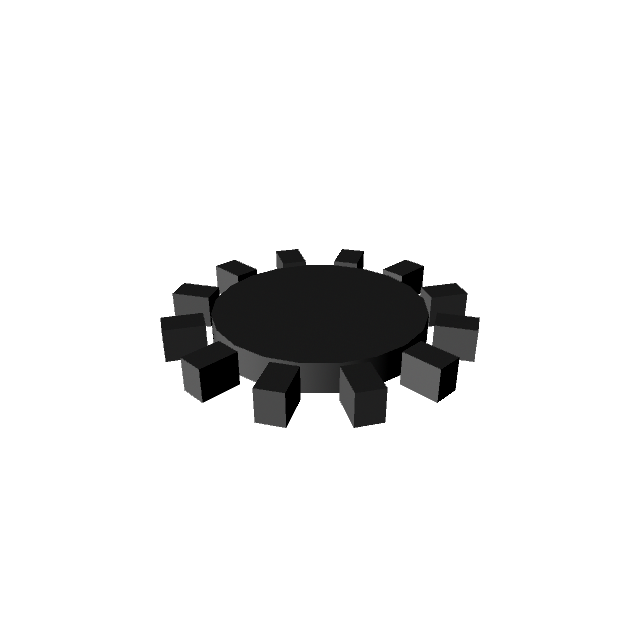
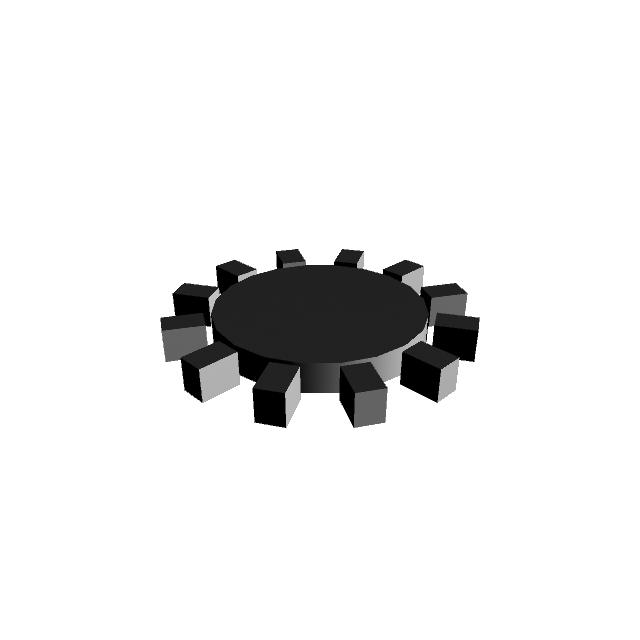
fix(eval,docs): close review findings on the M2.4 live gate (redmine #587)
Review of Task 6's array_deform_live.py found the mirror gate's bbox
assertion invariant to the thing it claimed to prove (baked-into-geometry
vs pushed-onto-the-child's-transform-channels are indistinguishable in
world space), the flare completely unmeasured (verts>0 passes for a
no-op flare), and docs still advertising the pre-M2.4 5-type deformer
set. Also fixed: the mirror's pixel cross-check didn't actually
discriminate (anti-aliasing alone clears its threshold), the gear gate
verified position but not orientation, a stale docstring claim, and
short render-target names that resolve today but are ambiguous once
copies live under a group.

Added own_transform_channels() (reads the copy's own scale/rotate
attrs directly, not a world-decomposed value) and flare_widths()
(radial extent near the bottom vs top of the core, same idiom as
test_flare_actually_tapers). Replaced the mirror's distinct_colors
check with an isolated render of the copy alone, asserting floors on
opaque_px/mean_luma. Added a gear-orientation swap check picked by
measured bearing rather than list index. All render() calls now pass
long names.

26/26 checks pass (up from 17); every new check passed clean on first
run, so no handler code changed. README.md and docs/design.md now list
all 8 deformer types. Headless suite unchanged: 434 passed, 1 skipped.

Changed region(s): [[0.25, 0.4062, 0.75, 0.6875], [0.5312, 0.4062, 0.5625, 0.4375], [0.4375, 0.4062, 0.4688, 0.4375]]

diff --git a/evals/array_deform_live.py b/evals/array_deform_live.py
@@ -9,7 +9,8 @@ The mirror gate additionally settles four assumptions a code review flagged
 as things only a live Maya can verify (see the mirror_bbox assertion and the
 signed_volume assertions below for which one covers which).
 
-Exits non-zero on the first failure.
+Runs every check to completion (check() accumulates failures; only ok() aborts
+early, on a hard call failure) and exits non-zero if any check failed.
 
 Run:  set MAYA_MCP_PORT=9878 && .venv/Scripts/python.exe evals/array_deform_live.py
 Artifacts: evals/array_deform_live/*.png
@@ -76,6 +77,18 @@ def span_of(objs, name):
     return [hi[i] - lo[i] for i in range(3)]
 
 
+def angle_of(objs, name):
+    """Bearing (degrees, 0..360) of `name`'s centroid around the world Y axis."""
+    c = centroid_of(objs, name)
+    return math.degrees(math.atan2(c[2], c[0])) % 360.0
+
+
+def circular_diff(a, b):
+    """Smallest angular distance between two bearings in degrees."""
+    d = (a - b) % 360.0
+    return min(d, 360.0 - d)
+
+
 _TIGHT_BBOX_CODE = """
 import json
 import maya.api.OpenMaya as om
@@ -90,6 +103,70 @@ ys = [p.y for p in pts]
 zs = [p.z for p in pts]
 print(json.dumps({"lo": [min(xs), min(ys), min(zs)], "hi": [max(xs), max(ys), max(zs)]}))
 """
+
+
+_FLARE_WIDTH_CODE = """
+import json
+import maya.api.OpenMaya as om
+sel = om.MSelectionList()
+sel.add(%r)
+dag = sel.getDagPath(0)
+dag.extendToShape()
+fn = om.MFnMesh(dag)
+pts = fn.getPoints(om.MSpace.kWorld)
+ys = [p.y for p in pts]
+y_lo, y_hi = min(ys), max(ys)
+band = (y_hi - y_lo) * 0.1
+def radial(p):
+    return (p.x ** 2 + p.z ** 2) ** 0.5
+bottom = [radial(p) for p in pts if p.y <= y_lo + band]
+top = [radial(p) for p in pts if p.y >= y_hi - band]
+print(json.dumps({
+    "y_lo": y_lo, "y_hi": y_hi,
+    "width_bottom": max(bottom) if bottom else 0.0,
+    "width_top": max(top) if top else 0.0,
+}))
+"""
+
+
+def flare_widths(name):
+    """Radial extent (world space) of `name`'s bottom 10% vs top 10% by Y.
+
+    Measures the SHAPE the flare produced, not just "something changed" -
+    same idiom as test_flare_actually_tapers in test_handlers_mayapy.py.
+    Radial distance from the local Y axis rather than raw abs(x), because the
+    core's flare tapers both startFlareX/Z and endFlareX/Z together, so the
+    taper shows on both axes and hypot(x, z) is the honest single number for it.
+    """
+    result = ok(call("execute_python", {"code": _FLARE_WIDTH_CODE % name}, 60.0),
+                "flare widths %s" % name)
+    return json.loads(result["stdout"])
+
+
+_TRANSFORM_CODE = """
+import json
+import maya.cmds as cmds
+print(json.dumps({
+    "translate": cmds.getAttr(%r + ".translate")[0],
+    "rotate": cmds.getAttr(%r + ".rotate")[0],
+    "scale": cmds.getAttr(%r + ".scale")[0],
+}))
+"""
+
+
+def own_transform_channels(name):
+    """The literal translate/rotate/scale attribute values on `name`'s own
+    transform node - NOT cmds.xform's worldSpace-decomposed numbers, which
+    would read as identity-ish for any unparented node regardless of whether
+    the parent's old transform was baked into geometry or just handed down
+    onto this node's own channels. Distinguishing those two is the entire
+    point of this check (see Important 1 in task-6-report.md): a world-space
+    measurement (bbox, signed_volume) is invariant to which of them happened,
+    because cmds.parent(world=True) preserves world position either way.
+    """
+    result = ok(call("execute_python", {"code": _TRANSFORM_CODE % (name, name, name)}, 60.0),
+                "transform channels %s" % name)
+    return json.loads(result["stdout"])
 
 
 def tight_world_bbox(name):
@@ -112,10 +189,14 @@ def tight_world_bbox(name):
     return data["lo"], data["hi"]
 
 
-def render(label, target, zoom=1.2):
-    result = ok(call("render_scene", {
+def render(label, target, zoom=1.2, isolate=None):
+    params = {
         "angles": ["three_quarter"], "renderer": "arnold", "resolution": 640,
-        "samples": 3, "target": target, "zoom": zoom}, 900.0), "render %s" % label)
+        "samples": 3, "target": target, "zoom": zoom,
+    }
+    if isolate is not None:
+        params["isolate"] = isolate
+    result = ok(call("render_scene", params, 900.0), "render %s" % label)
     os.makedirs(OUT_DIR, exist_ok=True)
     shot = result["images"][0]
     png = base64.b64decode(shot["png_b64"])
@@ -156,9 +237,28 @@ def gate_gear():
     check(max(gaps) - min(gaps) < 0.5,
           "teeth evenly spaced (gap range %.3f deg)" % (max(gaps) - min(gaps)))
 
+    # Position alone passes for an implementation that translates copies
+    # around the ring WITHOUT rotating them - all teeth facing the same way.
+    # The tooth's scale is [1.2, 1.0, 0.8] (X != Z), so the copy nearest 90
+    # degrees from the source must have its X/Z bbox spans SWAPPED relative
+    # to the source if it actually rotated. Picked by measured bearing, not
+    # list index - group() child order is not a contract this gate should lean on.
+    src_angle = angle_of(objs, "|tooth")
+    target_angle = (src_angle + 90.0) % 360.0
+    ninety = min(result["names"], key=lambda n: circular_diff(angle_of(objs, n), target_angle))
+    ninety_offset = circular_diff(angle_of(objs, ninety), target_angle)
+    src_span, rot_span = span_of(objs, "|tooth"), span_of(objs, ninety)
+    check(
+        abs(rot_span[0] - src_span[2]) < 0.02 and abs(rot_span[2] - src_span[0]) < 0.02,
+        "tooth near 90deg has X/Z bbox spans swapped vs source - actually "
+        "rotated, not just translated (source X=%.3f Z=%.3f, rotated-copy "
+        "X=%.3f Z=%.3f, bearing offset from ideal 90deg %.2fdeg)"
+        % (src_span[0], src_span[2], rot_span[0], rot_span[2], ninety_offset)
+    )
+
     ok(call("setup_lighting", {"preset": "three_point", "intensity": 3.0,
                                "replace_existing": True}, 180.0), "lighting")
-    render("gear", ["hub", "tooth"] + [n.split("|")[-1] for n in result["names"]])
+    render("gear", ["|hub", "|tooth"] + result["names"])
 
 
 def gate_spine():
@@ -175,6 +275,20 @@ def gate_spine():
 
     info = ok(call("get_object_info", {"name": "|core"}, 60.0), "core info")
     check(info["mesh_stats"]["verts"] > 0, "core survived the flare")
+
+    # verts > 0 above passes even for a flare that did NOTHING - it only
+    # proves the mesh survived, not that it tapered. This milestone's
+    # headline feature (3 new nonlinear deformers) had zero live shape
+    # measurement without this: sample the core's own vertices and confirm
+    # the bottom 10% (by Y) is meaningfully wider than the top 10%, same
+    # shape as test_flare_actually_tapers in test_handlers_mayapy.py.
+    flare = flare_widths("|core")
+    ratio = (flare["width_bottom"] / flare["width_top"]) if flare["width_top"] else float("inf")
+    print("  flare widths: bottom=%.4f top=%.4f ratio=%.3f (y range %.3f..%.3f)"
+          % (flare["width_bottom"], flare["width_top"], ratio, flare["y_lo"], flare["y_hi"]))
+    check(flare["width_bottom"] > flare["width_top"] * 1.5,
+          "flare actually tapers the core (bottom %.4f > 1.5x top %.4f, ratio %.3f)"
+          % (flare["width_bottom"], flare["width_top"], ratio))
 
     ok(call("create_primitive", {
         "kind": "cube", "name": "rib", "translate": [0.0, 11.0, 0.0],
@@ -198,7 +312,7 @@ def gate_spine():
 
     ok(call("setup_lighting", {"preset": "three_point", "intensity": 3.0,
                                "replace_existing": True}, 180.0), "lighting")
-    render("spine", ["core", "rib"] + [n.split("|")[-1] for n in result["names"]])
+    render("spine", ["|core", "|rib"] + result["names"])
 
 
 def gate_mirror():
@@ -260,13 +374,31 @@ def gate_mirror():
           "mirrored bbox (off-origin pivot) matches the pure prediction "
           "(worst axis error %.5f)" % worst)
 
+    # The bbox match above is invariant to WHERE the reflection ended up -
+    # cmds.parent(world=True) preserves world position whether makeIdentity
+    # baked the -1 scale into the copy's geometry or just handed it down onto
+    # the copy's own transform channels, and world-space bbox/signed_volume
+    # cannot tell those apart. "Baked into geometry" means the copy's own
+    # transform node ends up identity-ish: scale 1.0 on every axis (NOT -1.0),
+    # no residual rotation from the freeze. Read directly off the node, not
+    # decomposed from a world matrix.
+    xform = own_transform_channels(copy)
+    print("  %s own transform: translate=%s rotate=%s scale=%s"
+          % (copy, xform["translate"], xform["rotate"], xform["scale"]))
+    check(all(abs(s - 1.0) < 1e-4 for s in xform["scale"]),
+          "mirrored copy's own scale channels are identity, not -1 (baked "
+          "into geometry): %s" % [round(s, 6) for s in xform["scale"]])
+    check(all(abs(r) < 1e-3 for r in xform["rotate"]),
+          "mirrored copy's own rotate channels show no residual freeze "
+          "rotation: %s" % [round(r, 6) for r in xform["rotate"]])
+
     check(result["signed_volume"] is not None,
           "signed_volume was measured on the mirrored copy")
     # Assumption 3 (MFnMesh.getTriangles()'s indices pair correctly with
     # getPoints(kWorld)) and assumption 4 (polyNormal(normalMode=0) really is
     # "reverse") are both settled by this assertion: a wrong triangle/point
     # pairing produces a near-random signed volume (as likely negative as
-    # positive, and not reliably matching the pixel cross-check below); a
+    # positive, and not reliably matching the isolated-render check below); a
     # normalMode that doesn't reverse leaves the mirrored copy's inverted
     # winding uncorrected, which is negative by construction.
     check((result["signed_volume"] or 0.0) > 0.0,
@@ -276,13 +408,22 @@ def gate_mirror():
 
     ok(call("setup_lighting", {"preset": "three_point", "intensity": 3.0,
                                "replace_existing": True}, 180.0), "lighting")
-    stats = render("mirror", ["arm", copy.split("|")[-1]])
-    # An inward-facing mesh renders black or hollow: with both halves lit and
-    # only one of them inside out, the frame loses colour variety. This is the
-    # pixel-side cross-check on the signed-volume number.
-    check(stats["distinct_colors"] > 200,
-          "the mirrored pair renders as lit solids (%d distinct colours)"
-          % stats["distinct_colors"])
+    render("mirror", ["|arm", copy])
+    # distinct_colors on a frame with BOTH objects is not a real cross-check:
+    # an anti-aliased Arnold render of one lit solid alone clears 200 unaided
+    # (measured on the gear frame, no inversion risk at all: 1122 distinct
+    # colours), so a fully black mirrored copy next to a correctly lit source
+    # would very likely still pass it. Render the mirrored copy ALONE instead
+    # (target AND isolate, so nothing else is even in frame) and assert
+    # floors on opaque_px and mean_luma - an inside-out mesh under Arnold
+    # renders black or hollow, which tanks both.
+    iso_stats = render("mirror_isolated", [copy], isolate=[copy])
+    check(iso_stats["opaque_px"] > 3000,
+          "mirrored copy ALONE has real opaque coverage, not a near-empty "
+          "frame (%d opaque px)" % iso_stats["opaque_px"])
+    check(iso_stats["mean_luma"] > 3.0,
+          "mirrored copy ALONE is actually lit, not black/hollow "
+          "(mean_luma %.2f)" % iso_stats["mean_luma"])
 
 
 if __name__ == "__main__":

diff --git a/README.md b/README.md
@@ -132,7 +132,7 @@ Environment variables, all optional:
 | `maya_boolean_op` | Boolean two meshes (union/difference/intersection); auto-checkpoints, deletes construction history, collapses shading to one material. |
 | `maya_etch_text` | Carve text into a mesh face in one call (glyph, size, orient to face normal, depth, boolean, cleanup); reuses `boolean_op`'s core. |
 | `maya_sculpt_ops` | Apply a sequence of sculpt ops (`soft_move`, `inflate_region`, `displace_noise`, `smooth`, `extrude_faces`, `bevel_edges`, `crease_edges`, `bridge`) to one mesh. |
-| `maya_deform` | Apply a nonlinear/lattice deformer (bend/lattice/squash/twist/sculpt) to a mesh by name. |
+| `maya_deform` | Apply a nonlinear/lattice deformer (bend/flare/lattice/sculpt/sine/squash/twist/wave) to a mesh by name. |
 | `maya_remesh_retopo` | Retopologize a mesh toward a target polycount (polyRetopo, falling back to polyRemesh, then polyReduce); auto-checkpoints. |
 | `maya_mesh_cleanup` | Merge near-duplicate vertices, conform normals, freeze transforms, and delete construction history. |
 

diff --git a/docs/design.md b/docs/design.md
@@ -234,9 +234,11 @@ maya_sculpt_ops(mesh: str, ops: list[SculptOp]) -> { applied: int, tris, warning
   #   {op:"bridge", edges_a, edges_b}
   # Applied in order; abort-and-report on first failure, listing which ops landed.
 
-maya_deform(mesh: str, deformer: Literal["bend","lattice","squash","twist","sculpt"],
+maya_deform(mesh: str, deformer: Literal["bend","flare","lattice","sculpt",
+                                          "sine","squash","twist","wave"],
             params: dict, delete_history_after: bool = False)
-  # bend for the golem hunch; lattice for global proportion pushes.
+  # bend for the golem hunch; lattice for global proportion pushes; flare for
+  # a limb thick at one end and thin at the other; sine/wave for ripples.
 
 maya_remesh_retopo(mesh: str, target_polycount: int, keep_original: bool = True)
   # destructive → auto-checkpoint. polyRetopo where available, polyRemesh fallback,
